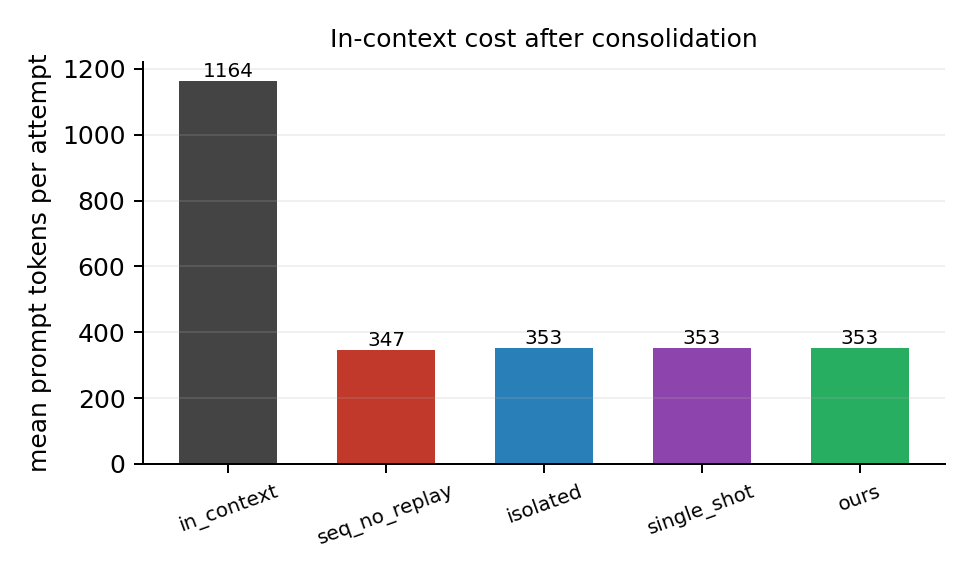
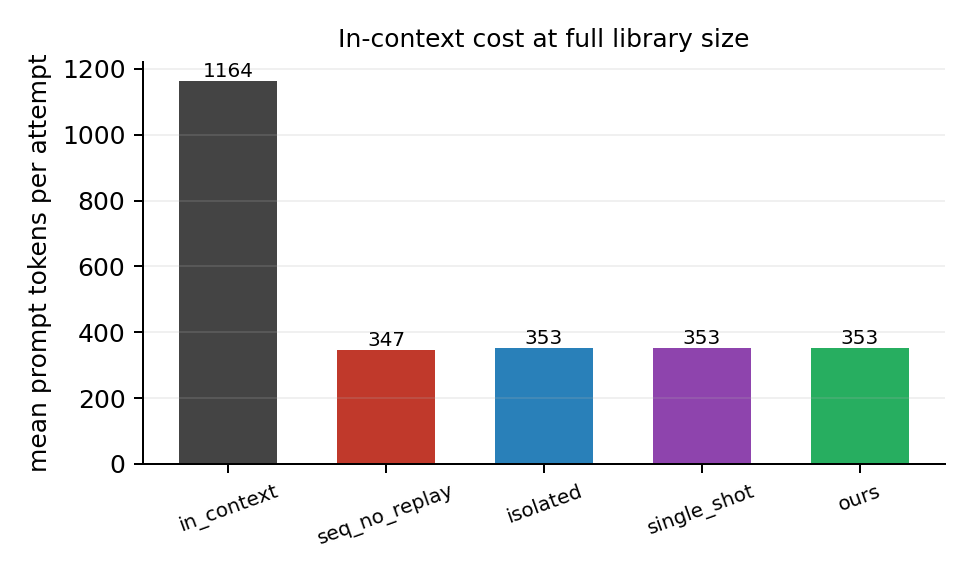
Tidy the docs and drop the dev probe scripts
Documents are ASCII only now. Editing them from a script on a Windows locale
reads them as cp1252, which makes replacements against em dashes silently do
nothing, and that had already cost one edit.

Also separates the two token numbers that were being used interchangeably: the
table reports the run average, the figure reports cost at full library size.

Changed region(s): [[0.3395, 0.0312, 0.7716, 0.0938]]

diff --git a/analysis/plots.py b/analysis/plots.py
@@ -110,7 +110,11 @@ def plot_token_cost(
     path: Optional[str | Path] = None,
     order: Optional[Sequence[str]] = None,
 ):
-    """Mean in-context prompt tokens per evaluated skill."""
+    """In-context prompt tokens once the library is complete.
+
+    Measured at the final snapshot rather than averaged over the run: early
+    episodes have a small library and would flatter every method equally.
+    """
     methods = results["methods"]
     order = [m for m in (order or list(methods)) if methods[m]["snapshots"]]
     fig, ax = plt.subplots(figsize=(5.4, 3.2))
@@ -124,7 +128,7 @@ def plot_token_cost(
         ax.text(bar.get_x() + bar.get_width() / 2, v, f"{v:.0f}", ha="center",
                 va="bottom", fontsize=8)
     ax.set_ylabel("mean prompt tokens per attempt")
-    ax.set_title("In-context cost after consolidation", fontsize=10)
+    ax.set_title("In-context cost at full library size", fontsize=10)
     ax.tick_params(axis="x", rotation=20, labelsize=8)
     ax.grid(alpha=0.25, axis="y", linewidth=0.6)
     ax.spines["top"].set_visible(False)

diff --git a/tests/test_reported_numbers.py b/tests/test_reported_numbers.py
@@ -23,7 +23,7 @@ KEY_BY_ROW = {
     "(c) isolated (peam-style)": "isolated",
     "(d) one-shot text-to-lora (latentskill-style)": "single_shot",
     "(d) one-shot (latentskill-style)": "single_shot",
-    "ours — cumulative lora + replay": "ours",
+    "ours -- cumulative lora + replay": "ours",
     "ours": "ours",
 }
 

diff --git a/README.md b/README.md
@@ -12,8 +12,8 @@ The question the project is built to answer is narrow and comparative:
 > physically isolating one adapter per skill, without paying for storage that
 > grows with every skill learned?
 
-That comparison — cumulative-plus-replay against PEAM-style isolation, with a
-no-replay sequential adapter as the control that proves forgetting is real — is
+That comparison -- cumulative-plus-replay against PEAM-style isolation, with a
+no-replay sequential adapter as the control that proves forgetting is real -- is
 the contribution. It is not run in any of the neighbouring papers.
 
 ## Results (CPU pipeline, 20 seeds)
@@ -24,12 +24,17 @@ the contribution. It is not run in any of the neighbouring papers.
 | (b) Sequential LoRA, no replay | 0.10 | 0.27 | 679 | 4.7 M |
 | (c) Isolated per-skill adapters (PEAM-style) | 0.73 | 0.87 | 417 | 70.8 M |
 | (d) One-shot text-to-LoRA (LatentSkill-style) | 0.71 | 0.67 | 320 | 35.4 M |
-| **ours** — cumulative LoRA + replay | **0.73** | **0.87** | **417** | **4.7 M** |
+| **ours** -- cumulative LoRA + replay | **0.73** | **0.87** | **417** | **4.7 M** |
 
-Replay into one shared adapter matches isolation's retention at **15× less
+The table's token column is the mean across the whole run, when the library is
+still small for much of it. At full library size the gap is wider: 1164 tokens
+per attempt for the in-context baseline against 353 once skills have been
+consolidated, which is what figure 3 shows.
+
+Replay into one shared adapter matches isolation's retention at **15x less
 adapter storage**, and cuts prompt cost roughly in half against keeping the
 library in context. It does not match the in-context ceiling on absolute success
-(0.73 vs 0.85) — that gap is the price of moving skills out of the prompt, and
+(0.73 vs 0.85) -- that gap is the price of moving skills out of the prompt, and
 it is reported rather than smoothed over.
 
 Without replay the same cumulative adapter collapses to 0.10. That baseline
@@ -70,7 +75,7 @@ analysis/     evaluation, forgetting curves, figures, GPU result collection
 configs/      default GPU config, CPU pipeline config, ablation grids
 notebooks/    Kaggle notebooks: smoke test, main run, ablations, figures
 scripts/      CPU experiments, ablations, figures, notebook generation
-tests/        132 tests, CPU only
+tests/        144 tests, CPU only
 ```
 
 ## Running it
@@ -78,7 +83,7 @@ tests/        132 tests, CPU only
 ```bash
 pip install -r requirements.txt
 
-python -m pytest -q                      # 132 tests, about 80 seconds
+python -m pytest -q                      # 144 tests, about 70 seconds
 python scripts/reproduce.py              # every CPU result and figure
 python scripts/run_cpu_experiment.py     # the four methods, quick
 python scripts/run_ablations.py --grid buffer
@@ -116,12 +121,12 @@ A night, in order:
 
 1. collect the skills learned since the last night
 2. build one SFT example per skill: task description in, verified program out,
-   with no library text in the prompt — so a correct program can only come from
+   with no library text in the prompt -- so a correct program can only come from
    weights
 3. draw a capped replay sample from everything learned earlier
 4. **interleave** new and replayed examples and run one short LoRA pass over the
    mixture
-5. keep training the *same* adapter — never reset, never fork
+5. keep training the *same* adapter -- never reset, never fork
 6. mark the new skills consolidated, so retrieval serves only their names
 
 Steps 4 and 5 are the method. Interleaving rather than concatenating keeps

diff --git a/paper/paper.md b/paper/paper.md
@@ -170,6 +170,11 @@ normalised retention reaching zero within a few skills. This is the baseline
 that makes the rest meaningful, and it is asserted as a test: if the setup ever
 stops detecting forgetting, the study has no result to report.
 
+The table's token column is the mean across the whole run, when the library is
+still small for much of it. At full library size the gap is wider: 1164 tokens
+per attempt for the in-context baseline against 353 once skills have been
+consolidated, which is what figure 3 shows.
+
 **We do not match the ceiling.** Keeping the library in context scores 0.85
 against our 0.73. That gap is the price of moving skills out of the prompt, and
 we report it rather than choosing a metric that hides it. What is bought with it
@@ -198,8 +203,8 @@ rotating through skills.
 # 5. Related work
 ## Two-timescale distillation
 
-The setting this paper works in — an explicit skill library that periodically
-writes its own contents back into model weights — is named as an open direction
+The setting this paper works in -- an explicit skill library that periodically
+writes its own contents back into model weights -- is named as an open direction
 by the *Dynamic Agent Skills* survey (arXiv:2607.10113), which lists
 "two-timescale distillation" among the emerging and unresolved categories. The
 survey is evidence that the question is recognised, not that it is answered; the
@@ -225,12 +230,12 @@ callable.
 **How forgetting is prevented.** PEAM prevents interference by *construction*:
 physically isolated per-category MoE-LoRA adapters, so no two categories share
 parameters. This paper prevents it by *replay* into one shared cumulative
-adapter. The two strategies have opposite cost profiles — isolation cannot
+adapter. The two strategies have opposite cost profiles -- isolation cannot
 forget but its storage grows with every category, while a shared adapter is
 flat but forgets unless something actively protects earlier skills.
 
 Nobody has run that comparison directly, which is what this paper does. The
-result (§4) is that replay matches isolation's retention at 15× less adapter
+result (Section 4) is that replay matches isolation's retention at 15x less adapter
 storage, and the paper reports the axis where isolation genuinely wins
 (robustness by construction, no replay budget to tune) rather than arguing
 around it.
@@ -247,7 +252,7 @@ than a footnote.
 ## LatentSkill (arXiv:2606.06087)
 
 LatentSkill converts a skill into LoRA parameters with a single hypernetwork
-forward pass — no gradient-based training at consolidation time at all. It is
+forward pass -- no gradient-based training at consolidation time at all. It is
 fast and it is one-shot, but there is no growing library and no offline
 consolidation phase, so nothing accumulates and nothing has to be protected.
 Baseline (d) is the LatentSkill-shaped reference point: one adapter per skill
@@ -265,8 +270,8 @@ to fit on a single T4.
 
 ## Voyager
 
-The outer loop is Voyager's — curriculum, skill library, retrieval, compositional
-reuse — with one deliberate removal. Voyager's GPT-4 self-verification critic is
+The outer loop is Voyager's -- curriculum, skill library, retrieval, compositional
+reuse -- with one deliberate removal. Voyager's GPT-4 self-verification critic is
 replaced by a programmatic predicate over world state. This is a simplification
 made for compute, but it also makes the success signal exact rather than
 model-mediated, which matters when the thing being measured is whether a skill

diff --git a/paper/related_work.md b/paper/related_work.md
@@ -2,8 +2,8 @@
 
 ## Two-timescale distillation
 
-The setting this paper works in — an explicit skill library that periodically
-writes its own contents back into model weights — is named as an open direction
+The setting this paper works in -- an explicit skill library that periodically
+writes its own contents back into model weights -- is named as an open direction
 by the *Dynamic Agent Skills* survey (arXiv:2607.10113), which lists
 "two-timescale distillation" among the emerging and unresolved categories. The
 survey is evidence that the question is recognised, not that it is answered; the
@@ -29,12 +29,12 @@ callable.
 **How forgetting is prevented.** PEAM prevents interference by *construction*:
 physically isolated per-category MoE-LoRA adapters, so no two categories share
 parameters. This paper prevents it by *replay* into one shared cumulative
-adapter. The two strategies have opposite cost profiles — isolation cannot
+adapter. The two strategies have opposite cost profiles -- isolation cannot
 forget but its storage grows with every category, while a shared adapter is
 flat but forgets unless something actively protects earlier skills.
 
 Nobody has run that comparison directly, which is what this paper does. The
-result (§4) is that replay matches isolation's retention at 15× less adapter
+result (Section 4) is that replay matches isolation's retention at 15x less adapter
 storage, and the paper reports the axis where isolation genuinely wins
 (robustness by construction, no replay budget to tune) rather than arguing
 around it.
@@ -51,7 +51,7 @@ than a footnote.
 ## LatentSkill (arXiv:2606.06087)
 
 LatentSkill converts a skill into LoRA parameters with a single hypernetwork
-forward pass — no gradient-based training at consolidation time at all. It is
+forward pass -- no gradient-based training at consolidation time at all. It is
 fast and it is one-shot, but there is no growing library and no offline
 consolidation phase, so nothing accumulates and nothing has to be protected.
 Baseline (d) is the LatentSkill-shaped reference point: one adapter per skill
@@ -69,8 +69,8 @@ to fit on a single T4.
 
 ## Voyager
 
-The outer loop is Voyager's — curriculum, skill library, retrieval, compositional
-reuse — with one deliberate removal. Voyager's GPT-4 self-verification critic is
+The outer loop is Voyager's -- curriculum, skill library, retrieval, compositional
+reuse -- with one deliberate removal. Voyager's GPT-4 self-verification critic is
 replaced by a programmatic predicate over world state. This is a simplification
 made for compute, but it also makes the success signal exact rather than
 model-mediated, which matters when the thing being measured is whether a skill
